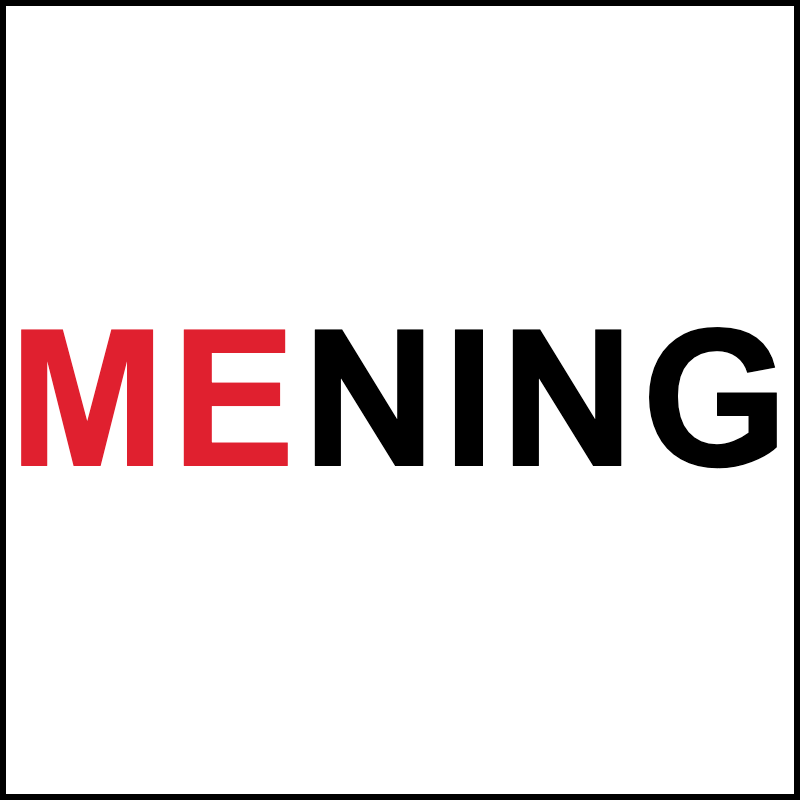
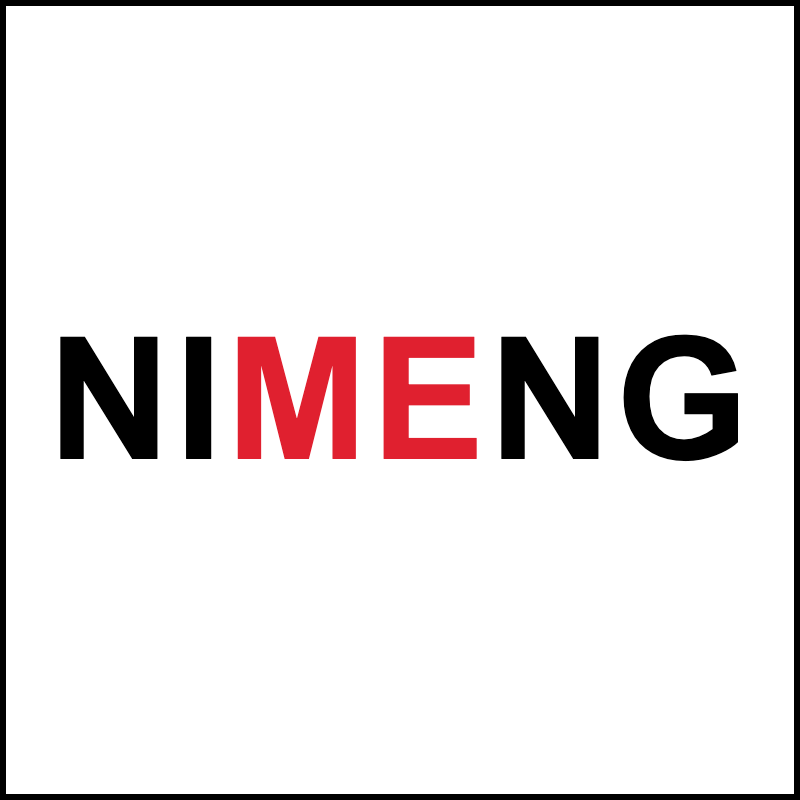
Fix meaning and teardrop cards
- meaning: ME now sits inside NING (NIMENG) instead of prefixed before it
- teardrop: TEAR now lands tilted/sprawled at the bottom with a dashed
  drop line from the top, showing both the fall and the landing

Claude-Session: https://claude.ai/code/session_01QFAXVa8qbvmR8EUvRPsQ6z

Changed region(s): [[0.0, 0.4062, 0.9688, 0.5938]]

diff --git a/js/puzzles.js b/js/puzzles.js
@@ -652,7 +652,7 @@ export const PUZZLES = [
     id: 'meaning',
     answer: 'MEANING',
     image: 'images/cards/card-103.png',
-    description: 'html: The word "MENING" on a single line, with "ME" colored red and "NING" colored black (representing "ME" in "NING" = "MEANING").',
+    description: 'html: The word "NIMENG" on a single line, with "NI" and "NG" colored black and "ME" colored red in the middle (representing "ME" embedded in "NING" = "MEANING").',
   },
   {
     id: 'subtract',
@@ -688,6 +688,6 @@ export const PUZZLES = [
     id: 'teardrop',
     answer: 'TEARDROP',
     image: 'images/cards/card-109.png',
-    description: 'html: The word "TEAR" positioned near the top of the card, with a dashed vertical line trailing straight down from it toward the bottom, ending in a small teardrop shape (representing the word TEAR dropping from a high place = "TEARDROP").',
+    description: 'html: A dashed vertical line drops from the top of the card down to a ground line near the bottom, where the word "TEAR" lands tilted and sprawled across the ground line, like something dropped from a high place and landed in a sleeping/collapsed pose (representing "TEARDROP").',
   },
 ];